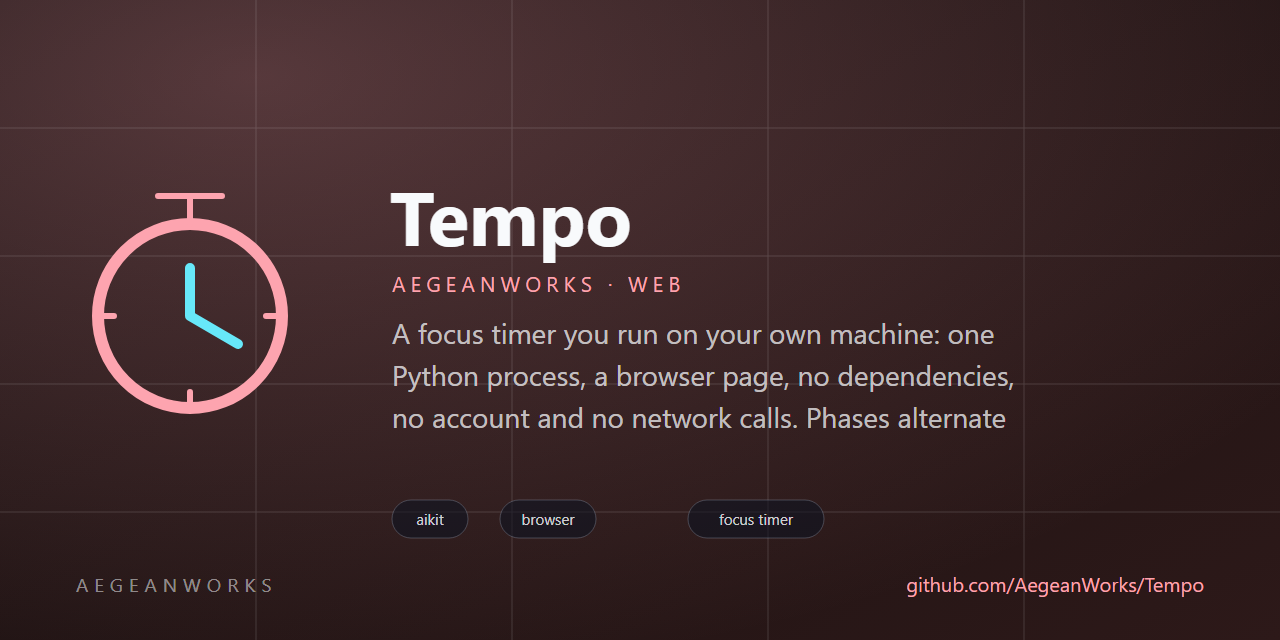
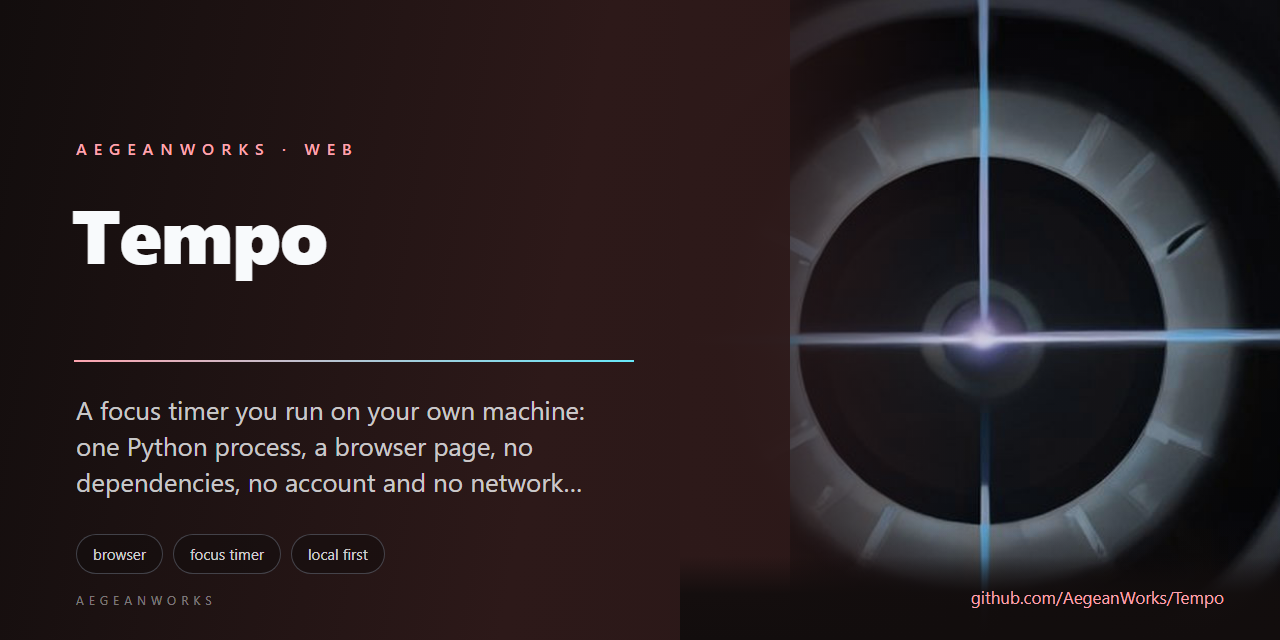
feat(brand): replace procedural marks with reviewed AI-art identities

diff --git a/README.md b/README.md
@@ -1,8 +1,8 @@
 # tempo
 
 <!-- aegean:media:start -->
-<p align="center"><img src="assets/logo.svg" alt="Tempo logo" width="96" height="96"></p>
-<p align="center"><img src="assets/social-preview.svg" alt="Tempo social preview" width="100%"></p>
+<p align="center"><img src="assets/logo.png" alt="Tempo logo" width="96" height="96"></p>
+<p align="center"><img src="assets/social-preview.png" alt="Tempo social preview" width="100%"></p>
 <!-- aegean:media:end -->
 
 [![Built with AIKit](https://img.shields.io/badge/built%20with-AIKit-6f42c1)](https://github.com/AegeanWorks/AIKit)
